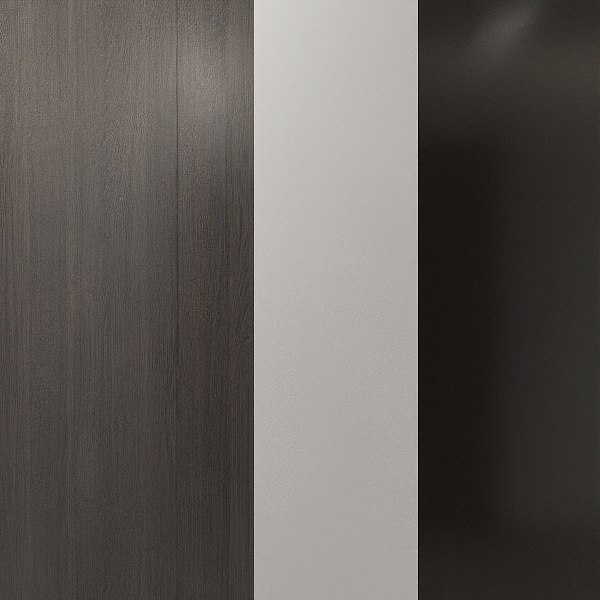
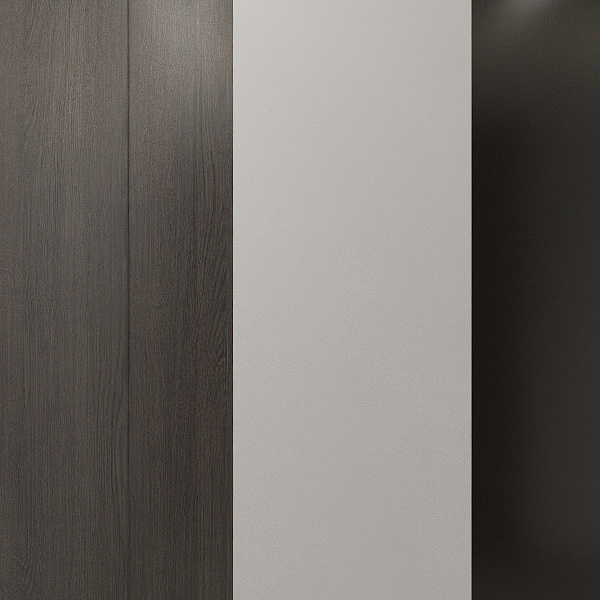
feat: 洗衣机在客厅，相机位置0，0，1

diff --git a/src/components/ShowModel.vue b/src/components/ShowModel.vue
@@ -60,7 +60,7 @@ export default {
         cameraMaxDistance
       );
 
-      camera.position.set(0, 0, 100);
+      camera.position.set(0, 0, 1);
 
       // 添加场景及颜色
       scene = new THREE.Scene();
@@ -122,7 +122,7 @@ export default {
             child.userData.parent = object;
           });
           // 设置object position
-          object.position.set(5458, - 411 * 2 - 300, -4096 - 300 * 1.2);
+          object.position.set(3052+ 430/2 + 581/2, - 411 * 2 - 300, -600/2);
           // object.position.set(0, 0, 0);
           object.rotation.set(0, -Math.PI / 2, 0);
           // 添加object到场景里
@@ -283,7 +283,7 @@ export default {
 
              vec4 temp = pixel1 - pixel;
              float alpha = temp.x * temp.x + temp.y * temp.y + temp.z * temp.z;
-             if(alpha < 0.05) {
+             if(alpha < 0.003) {
               alpha = 1.0;
              }else {
               alpha = 0.0;
@@ -311,7 +311,7 @@ export default {
         }
       }
       const skyBox1 = new THREE.Mesh(
-        new THREE.BoxGeometry(6000, 6000, 6000),
+        new THREE.BoxGeometry(1000, 1000, 1000),
         materials1
       );
       skyBox1.geometry.scale(1, 1, -1);
